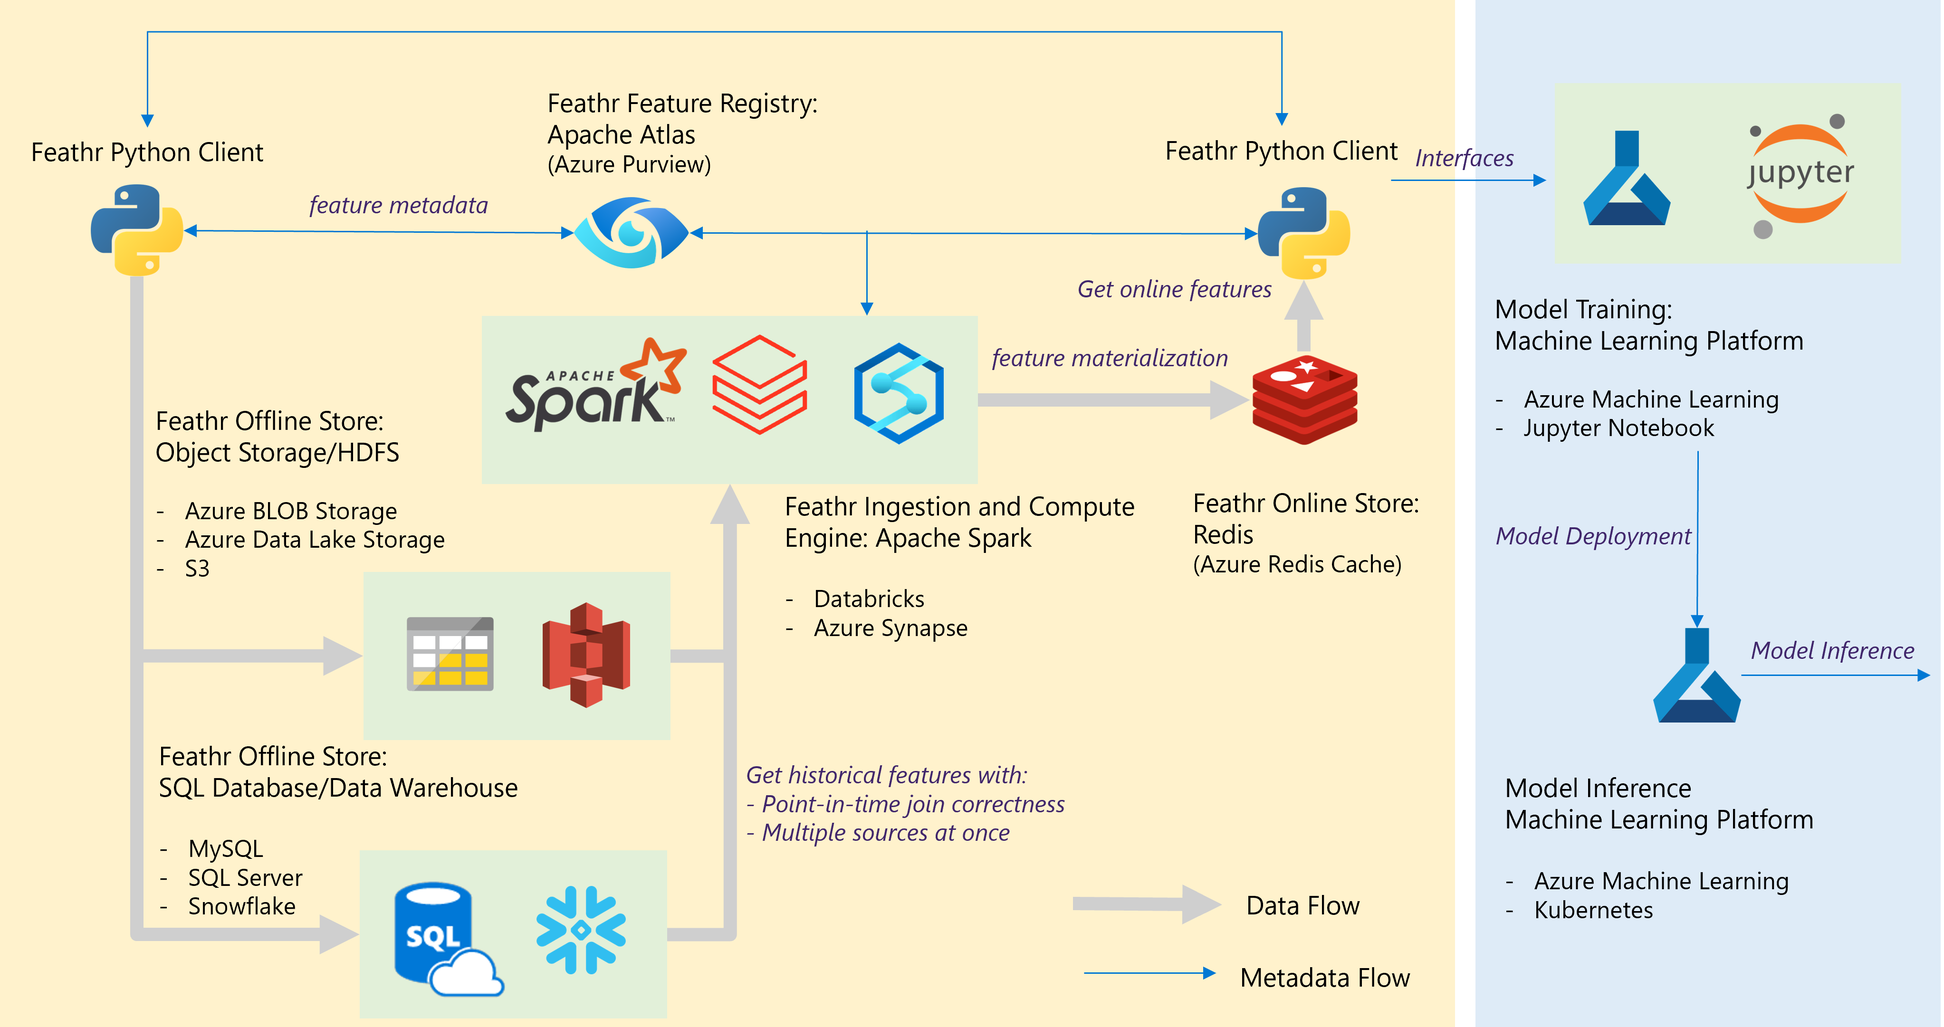
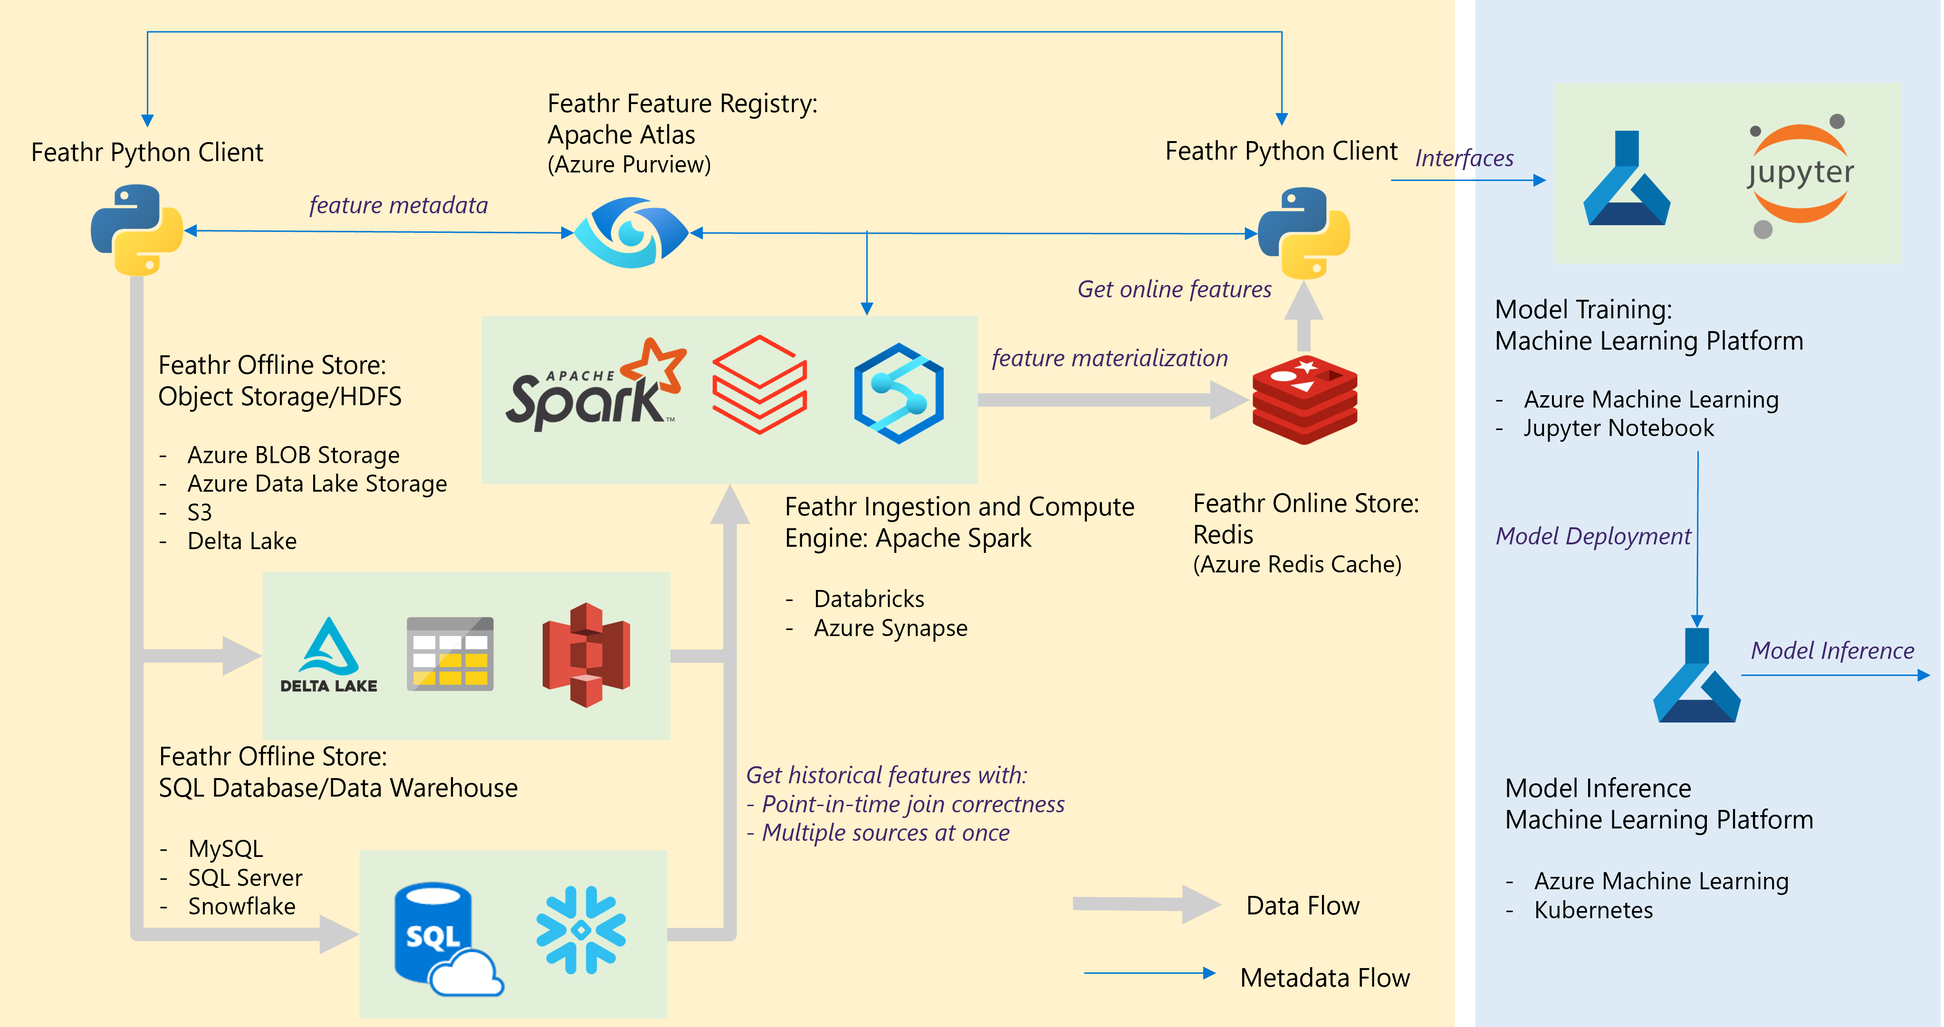
Add support for Delta Lake (#95)
Goal of this PR is to provide support for Delta Lake.

Currently one of the test will fail (reading the delta lake result from Azure Synapse) due to an error on the underlying library. (tracked here: https://github.com/delta-io/delta-rs/issues/582)

Changed region(s): [[0.0931, 0.3409, 0.2173, 0.7438]]

diff --git a/feathr_project/feathr/_synapse_submission.py b/feathr_project/feathr/_synapse_submission.py
@@ -5,6 +5,7 @@ import urllib.request
 from pathlib import Path
 from typing import Any, Dict, List, Optional, Tuple
 from urllib.parse import urlparse
+from os.path import basename
 
 from azure.identity import (ChainedTokenCredential, DefaultAzureCredential,
                             DeviceCodeCredential, EnvironmentCredential,
@@ -298,7 +299,7 @@ class _DataLakeFiler(object):
 
         src_parse_result = urlparse(src_file_path)
         if src_parse_result.scheme.startswith('http'):
-            file_name = os.path.basename(src_file_path)
+            file_name = basename(src_file_path)
             file_client = self.dir_client.create_file(file_name)
             # returned paths for the uploaded file
             returned_path = self.datalake_dir + file_name
@@ -324,7 +325,7 @@ class _DataLakeFiler(object):
         return returned_path
 
     def upload_file(self, src_file_path)-> str:
-        file_name = os.path.basename(src_file_path)
+        file_name = basename(src_file_path)
         logger.info("Uploading file {}", file_name)
         file_client = self.dir_client.create_file(file_name)
         returned_path = self.datalake_dir + file_name
@@ -336,7 +337,8 @@ class _DataLakeFiler(object):
 
     def download_file(self, target_adls_directory: str, local_dir_cache: str):
         """
-        Download file to a local cache
+        Download file to a local cache. Supporting download a folder and the content in its subfolder.
+        Note that the code will just download the content in the root folder, and the folder in the next level (rather than recursively for all layers of folders)
 
         Args:
             target_adls_directory (str): target ADLS directory
@@ -347,14 +349,40 @@ class _DataLakeFiler(object):
         parse_result = urlparse(target_adls_directory)
         directory_client = self.file_system_client.get_directory_client(
             parse_result.path)
+
         # returns the paths to all the files in the target director in ADLS
-        adls_paths = [file_path.name.split("/")[-1] for file_path in self.file_system_client.get_paths(
-            path=parse_result.path) if not file_path.is_directory][1:]
-        # need to generate list of local paths to write the files to
+        # get all the paths that are not under a directory
+        result_paths = [basename(file_path.name) for file_path in self.file_system_client.get_paths(
+            path=parse_result.path, recursive=False) if not file_path.is_directory]
+        
+        # get all the paths that are directories and download them
+        result_folders = [file_path.name for file_path in self.file_system_client.get_paths(
+            path=parse_result.path) if file_path.is_directory]
+
+        # list all the files under the certain folder, and download them preserving the hierarchy
+        for folder in result_folders:
+            folder_name = basename(folder)
+            file_in_folder = [os.path.join(folder_name, basename(file_path.name)) for file_path in self.file_system_client.get_paths(
+            path=folder, recursive=False) if not file_path.is_directory]
+            local_paths = [os.path.join(local_dir_cache, file_name)
+                       for file_name in file_in_folder]
+            self._download_file_list(local_paths, file_in_folder, directory_client)
+
+        # download files that are in the result folder
         local_paths = [os.path.join(local_dir_cache, file_name)
-                       for file_name in adls_paths]
-        for idx, file_to_write in enumerate(tqdm(adls_paths,desc="Downloading result files: ")):
+                       for file_name in result_paths]
+        self._download_file_list(local_paths, result_paths, directory_client)
+
+        logger.info('Finish downloading files from {} to {}.',
+                    target_adls_directory,local_dir_cache)
+    
+    def _download_file_list(self, local_paths: List[str], result_paths, directory_client):
+        '''
+        Download filelist to local
+        '''
+        for idx, file_to_write in enumerate(tqdm(result_paths,desc="Downloading result files: ")):
             try:
+                os.makedirs(os.path.dirname(local_paths[idx]), exist_ok=True)
                 local_file = open(local_paths[idx], 'wb')
                 file_client = directory_client.get_file_client(file_to_write)
                 download = file_client.download_file()
@@ -363,5 +391,3 @@ class _DataLakeFiler(object):
                 local_file.close()
             except Exception as e:
                 logger.error(e)
-        logger.info('Finish downloading files from {} to {}.',
-                    target_adls_directory,local_dir_cache)

diff --git a/feathr_project/feathr/_databricks_submission.py b/feathr_project/feathr/_databricks_submission.py
@@ -5,6 +5,7 @@ import time
 import traceback
 import urllib
 from collections import namedtuple
+from os.path import basename
 from pathlib import Path
 from typing import Any, Dict, List, Optional, Tuple, Union
 from urllib.parse import urlparse
@@ -220,29 +221,45 @@ class _FeathrDatabricksJobLauncher(SparkJobLauncher):
         """
         Supports downloading files from the result folder. Only support paths starts with `dbfs:/` and only support downloading files in one folder (per Spark's design, everything will be in the result folder in a flat manner)
         """
-        if not result_path.startswith('dfbs'):
-            RuntimeError('Currently only paths starting with dbfs is supported for downloading results from a databricks cluster. The path should start with \"dbfs:\" .')
+        if not result_path.startswith('dbfs'):
+            raise RuntimeError('Currently only paths starting with dbfs is supported for downloading results from a databricks cluster. The path should start with \"dbfs:\" .')
 
         try:
             # listing all the files in a folder: https://docs.microsoft.com/en-us/azure/databricks/dev-tools/api/latest/dbfs#--list
             result = requests.get(url=self.workspace_instance_url+'/api/2.0/dbfs/list',
                                 headers=self.auth_headers,  params={ 'path': result_path})
+            # see here for response structure: https://docs.microsoft.com/en-us/azure/databricks/dev-tools/api/latest/dbfs#--response-structure-2
             dbfs_files = result.json()['files']
             for file_path in tqdm(dbfs_files, desc="Downloading result files: "):
                 # each file_path would be a dict of this type: https://docs.microsoft.com/en-us/azure/databricks/dev-tools/api/latest/dbfs#dbfsfileinfo
-                dbfs_file_path, dbfs_file_size, local_file_path = file_path['path'], file_path['file_size'], os.path.join(local_folder, os.path.basename(file_path['path']))
-                with open(local_file_path, 'wb') as file_obj:
-                    downloaded_size = 0
-                    # Loop until we've downloaded the whole file
-                    while downloaded_size < dbfs_file_size:
-                        chunk = self._read_single_chunk(path=dbfs_file_path, offset=downloaded_size, length=MB_BYTES)
-                        file_obj.write(base64.b64decode(chunk.data))
-                        downloaded_size += chunk.bytes_read
-            # Logging once all the download is finished.
+                if not file_path['is_dir']:
+                    # if it's not a directory
+                    self._download_single_file(file_path, local_folder)
+                else:
+                    # if the result is dir
+                    # us this path as the new folder path
+                    folder_path = file_path['path']
+                    folder_name = basename(folder_path)
+                    result = requests.get(url=self.workspace_instance_url+'/api/2.0/dbfs/list',
+                                headers=self.auth_headers,  params={ 'path': folder_path})
+                    dbfs_files = result.json()['files']
+                    for file_path in dbfs_files:
+                        os.makedirs(os.path.join(local_folder,folder_name), exist_ok=True)
+                        self._download_single_file(file_path, os.path.join(local_folder,folder_name))
+                # Logging once all the download is finished.
             logger.info('Finish downloading files from {} to {}.', result_path,local_folder)
         except requests.exceptions.RequestException as e:  # This is the correct syntax
             raise SystemExit(e)
 
+    def _download_single_file(self,file_path,local_folder):
+        dbfs_file_path, dbfs_file_size, local_file_path = file_path['path'], file_path['file_size'], os.path.join(local_folder, os.path.basename(file_path['path']))
+        with open(local_file_path, 'wb') as file_obj:
+            downloaded_size = 0
+            # Loop until we've downloaded the whole file
+            while downloaded_size < dbfs_file_size:
+                chunk = self._read_single_chunk(path=dbfs_file_path, offset=downloaded_size, length=MB_BYTES)
+                file_obj.write(base64.b64decode(chunk.data))
+                downloaded_size += chunk.bytes_read
 
 
     def _read_single_chunk(self, path, offset, length=MB_BYTES):
@@ -258,4 +275,4 @@ class _FeathrDatabricksJobLauncher(SparkJobLauncher):
         if resp.status_code == 200:
             return FileReadInfo(**resp.json())
         else:
-            RuntimeError("Files cannot be downloaded.")
+            raise RuntimeError("Files cannot be downloaded.")

diff --git a/feathr_project/test/test_input_output_sources.py b/feathr_project/test/test_input_output_sources.py
@@ -1,0 +1,106 @@
+import os
+from datetime import datetime
+from pathlib import Path
+from unittest import result
+
+from click.testing import CliRunner
+from feathr import (BOOLEAN, FLOAT, INT32, FeatureQuery, ObservationSettings,
+                    SparkExecutionConfiguration, TypedKey, ValueType)
+from feathr.job_utils import get_result_df
+
+from test_fixture import basic_test_setup
+from feathr.constants import OUTPUT_FORMAT
+
+
+# test parquet file read/write without an extension name
+def test_feathr_get_offline_features_with_parquet():
+    """
+    Test if the program can read and write parquet files
+    """
+
+    test_workspace_dir = Path(
+        __file__).parent.resolve() / "test_user_workspace"
+
+    client = basic_test_setup(os.path.join(test_workspace_dir, "feathr_config.yaml"))
+
+    location_id = TypedKey(key_column="DOLocationID",
+                            key_column_type=ValueType.INT32)
+
+    feature_query = FeatureQuery(
+        feature_list=["f_location_avg_fare"], key=location_id)
+    settings = ObservationSettings(
+        observation_path="wasbs://public@azurefeathrstorage.blob.core.windows.net/sample_data/green_tripdata_2020-04",
+        event_timestamp_column="lpep_dropoff_datetime",
+        timestamp_format="yyyy-MM-dd HH:mm:ss")
+
+    now = datetime.now()
+    # set output folder based on different runtime
+    if client.spark_runtime == 'databricks':
+        output_path = ''.join(['dbfs:/feathrazure_cijob','_', str(now.minute), '_', str(now.second), ".parquet"])
+    else:
+        output_path = ''.join(['abfss://feathrazuretest3fs@feathrazuretest3storage.dfs.core.windows.net/demo_data/output','_', str(now.minute), '_', str(now.second), ".parquet"])
+
+    
+    client.get_offline_features(observation_settings=settings,
+                                feature_query=feature_query,
+                                output_path=output_path,
+                                execution_configuratons=SparkExecutionConfiguration({"spark.feathr.inputFormat": "parquet", "spark.feathr.outputFormat": "parquet"})
+                                )
+
+    # assuming the job can successfully run; otherwise it will throw exception
+    client.wait_job_to_finish(timeout_sec=900)
+    
+    # download result and just assert the returned result is not empty
+    res_df = get_result_df(client)
+    assert res_df.shape[0] > 0
+
+
+
+
+# test delta lake read/write without an extension name
+def test_feathr_get_offline_features_with_delta_lake():
+    """
+    Test if the program can read and write delta lake
+    """
+
+    test_workspace_dir = Path(
+        __file__).parent.resolve() / "test_user_workspace"
+
+    client = basic_test_setup(os.path.join(test_workspace_dir, "feathr_config.yaml"))
+
+    location_id = TypedKey(key_column="DOLocationID",
+                            key_column_type=ValueType.INT32)
+
+    feature_query = FeatureQuery(
+        feature_list=["f_location_avg_fare"], key=location_id)
+    settings = ObservationSettings(
+        observation_path="wasbs://public@azurefeathrstorage.blob.core.windows.net/sample_data/feathr_delta_table",
+        event_timestamp_column="lpep_dropoff_datetime",
+        timestamp_format="yyyy-MM-dd HH:mm:ss")
+
+    now = datetime.now()
+    # set output folder based on different runtime
+    if client.spark_runtime == 'databricks':
+        output_path = ''.join(['dbfs:/feathrazure_cijob','_', str(now.minute), '_', str(now.second), "_deltalake"])
+    else:
+        output_path = ''.join(['abfss://feathrazuretest3fs@feathrazuretest3storage.dfs.core.windows.net/demo_data/output','_', str(now.minute), '_', str(now.second), "_deltalake"])
+
+    
+    client.get_offline_features(observation_settings=settings,
+                                feature_query=feature_query,
+                                output_path=output_path,
+                                execution_configuratons=SparkExecutionConfiguration({"spark.feathr.inputFormat": "delta", "spark.feathr.outputFormat": "delta"})
+                                )
+
+    # assuming the job can successfully run; otherwise it will throw exception
+    client.wait_job_to_finish(timeout_sec=900)
+    
+    # download result and just assert the returned result is not empty
+    res_df = get_result_df(client)
+    
+
+    result_format: str = client.get_job_tags().get(OUTPUT_FORMAT, "")
+    if not (client.spark_runtime == 'azure_synapse' and result_format == 'delta'):
+        # if users are using delta format in synapse, skip this check, due to issue https://github.com/delta-io/delta-rs/issues/582
+        assert res_df.shape[0] > 0
+

diff --git a/feathr_project/feathr/job_utils.py b/feathr_project/feathr/job_utils.py
@@ -2,10 +2,10 @@ from feathr.client import FeathrClient
 import os
 import glob
 from feathr.constants import OUTPUT_FORMAT
-import pandavro as pdx
+from loguru import logger
 import pandas as pd
 import tempfile
-from pyarrow.parquet import ParquetDataset
+
 
 def get_result_df(client: FeathrClient) -> pd.DataFrame:
     """Download the job result dataset from cloud as a Pandas dataframe."""
@@ -17,13 +17,25 @@ def get_result_df(client: FeathrClient) -> pd.DataFrame:
     # by default the result are in avro format
     if format:
         # helper function for only parquet and avro
-        if format.lower()=="parquet":
+        if format.casefold()=="parquet":
             files =  glob.glob(os.path.join(tmp_dir.name, '*.parquet'))
+            from pyarrow.parquet import ParquetDataset
             ds = ParquetDataset(files)
-            vertical_concat_df = ds.read().to_pandas()
+            result_df = ds.read().to_pandas()
+        if format.casefold()=="delta":
+            from deltalake import DeltaTable
+            delta = DeltaTable(tmp_dir.name)
+            if not client.spark_runtime == 'azure_synapse':
+                # don't detect for synapse result with Delta as there's a problem with underlying system
+                # Issues are trached here: https://github.com/delta-io/delta-rs/issues/582
+                result_df = delta.to_pyarrow_table().to_pandas()
+            else:
+                logger.info("Please use Azure Synapse to read the result in the Azure Synapse cluster. Reading local results is not supported for Azure Synapse. Emtpy DataFrame is returned.")
+                result_df = pd.DataFrame()
     else:
+        import pandavro as pdx
         for file in glob.glob(os.path.join(tmp_dir.name, '*.avro')):
             dataframe_list.append(pdx.read_avro(file))
-        vertical_concat_df = pd.concat(dataframe_list, axis=0)
+        result_df = pd.concat(dataframe_list, axis=0)
     tmp_dir.cleanup()
-    return vertical_concat_df
+    return result_df

diff --git a/feathr_project/test/test_azure_spark_e2e.py b/feathr_project/test/test_azure_spark_e2e.py
@@ -120,6 +120,16 @@ def _validate_constant_feature(feature):
     assert feature[7] == ([1, 2, 3], [1, 2, 3])
 
 
+def test_dbfs_path():
+    test_workspace_dir = Path(
+        __file__).parent.resolve() / "test_user_workspace"
+    client = basic_test_setup(os.path.join(test_workspace_dir, "feathr_config.yaml"))
+    if client.spark_runtime.casefold() == "databricks":
+        # expect this raise an error since the result path is not in dbfs: format
+        with pytest.raises(RuntimeError):
+            client.feathr_spark_laucher.download_result(result_path="wasb://res_url", local_folder="/tmp")
+
+
 def test_feathr_get_offline_features():
     """
     Test get_offline_features() can get data correctly.

diff --git a/feathr_project/setup.py b/feathr_project/setup.py
@@ -37,6 +37,7 @@ setup(
         "tqdm",
         "pyarrow",
         "python-snappy",
+        "deltalake",
         "google>=3.0.0",
         "google-api-python-client>=2.41.0",
     ],

diff --git a/docs/how-to-guides/feathr_job_configuration.md b/docs/how-to-guides/feathr_job_configuration.md
@@ -4,5 +4,5 @@ Since Feathr uses Spark as the underlying execution engine, there's a way to ove
 
 | Property Name             | Default | Meaning                                                                                                                                                                                                                                                                                                                                                                                                                                                                                                                                                                                        | Since Version |
 | ------------------------- | ------- | ---------------------------------------------------------------------------------------------------------------------------------------------------------------------------------------------------------------------------------------------------------------------------------------------------------------------------------------------------------------------------------------------------------------------------------------------------------------------------------------------------------------------------------------------------------------------------------------------- | ------------- |
-| spark.feathr.outputFormat | None    | Specify the output format. "avro" is the default behavior if this value is not set. Currently can only be set for Spark built-in short names, including `json`, `parquet`, `jdbc`, `orc`, `libsvm`, `csv`, `text`. For more details, see ["Manually Specifying Options"](https://spark.apache.org/docs/latest/sql-data-sources-load-save-functions.html#manually-specifying-options)                                                                                                                                                                                                           | 0.2.1         |
-| spark.feathr.inputFormat  | None    | Specify the input format if the file cannot be tell automatically. By default, Feathr will read files by parsing the file extension name; However the file/folder name doesn't have extension name, this configuration can be set to tell Feathr which format it should use to read the data. Currently can only be set for Spark built-in short names, including `json`, `parquet`, `jdbc`, `orc`, `libsvm`, `csv`, `text`. For more details, see ["Manually Specifying Options"](https://spark.apache.org/docs/latest/sql-data-sources-load-save-functions.html#manually-specifying-options) | 0.2.1         |
+| spark.feathr.inputFormat  | None    | Specify the input format if the file cannot be tell automatically. By default, Feathr will read files by parsing the file extension name; However the file/folder name doesn't have extension name, this configuration can be set to tell Feathr which format it should use to read the data. Currently can only be set for Spark built-in short names, including `json`, `parquet`, `jdbc`, `orc`, `libsvm`, `csv`, `text`. For more details, see ["Manually Specifying Options"](https://spark.apache.org/docs/latest/sql-data-sources-load-save-functions.html#manually-specifying-options). Additionally, `delta` is also supported if users want to read delta lake. | 0.2.1         |
+| spark.feathr.outputFormat | None    | Specify the output format. "avro" is the default behavior if this value is not set. Currently can only be set for Spark built-in short names, including `json`, `parquet`, `jdbc`, `orc`, `libsvm`, `csv`, `text`. For more details, see ["Manually Specifying Options"](https://spark.apache.org/docs/latest/sql-data-sources-load-save-functions.html#manually-specifying-options). Additionally, `delta` is also supported if users want to write delta lake.                                                                                                                                                                                                           | 0.2.1         |
